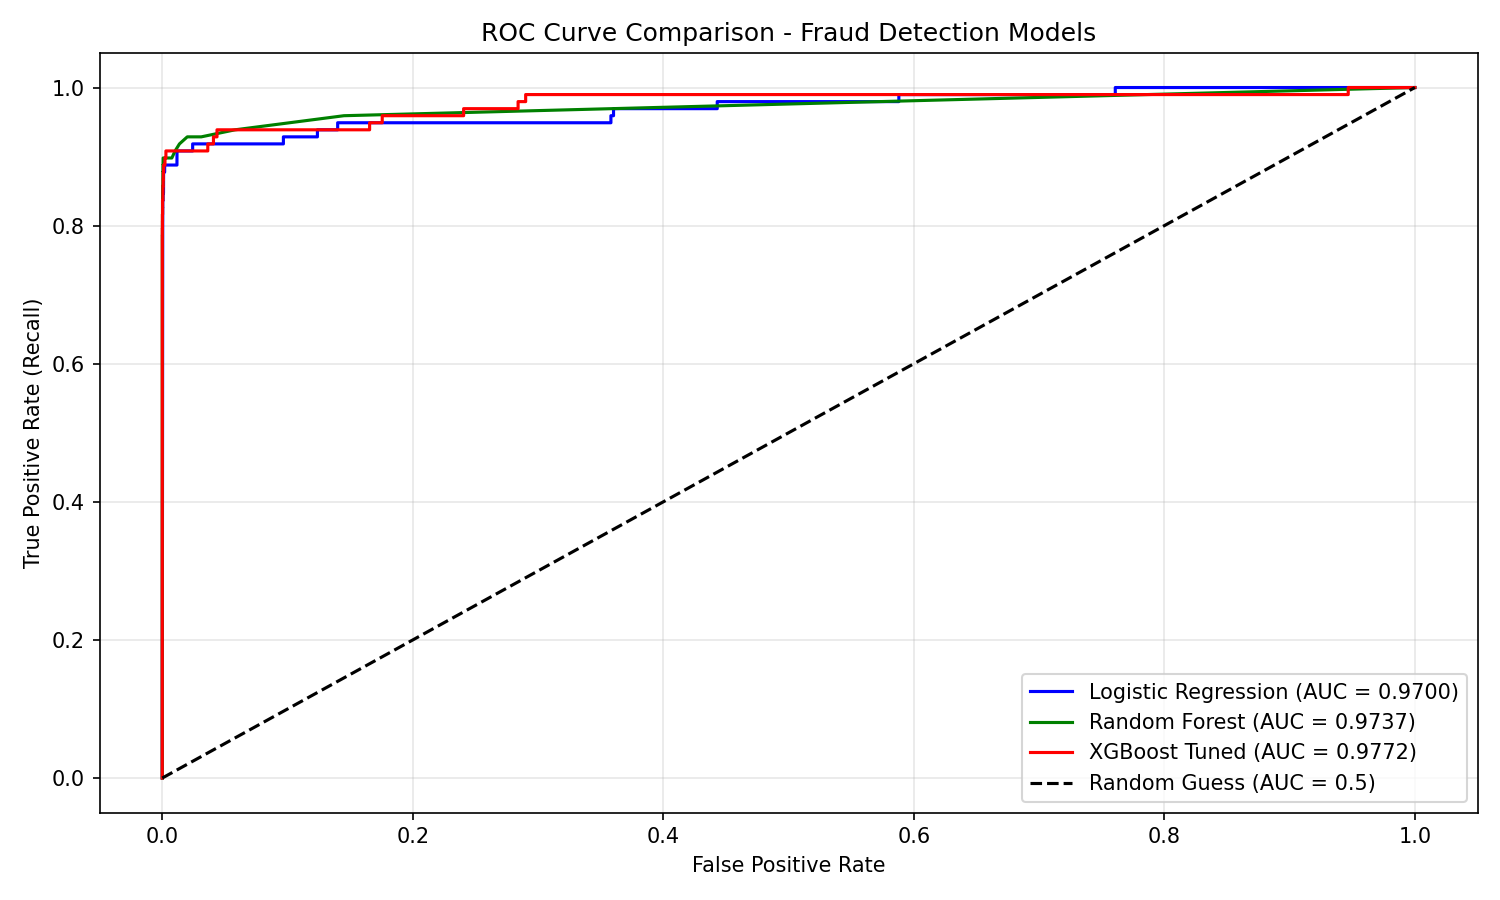
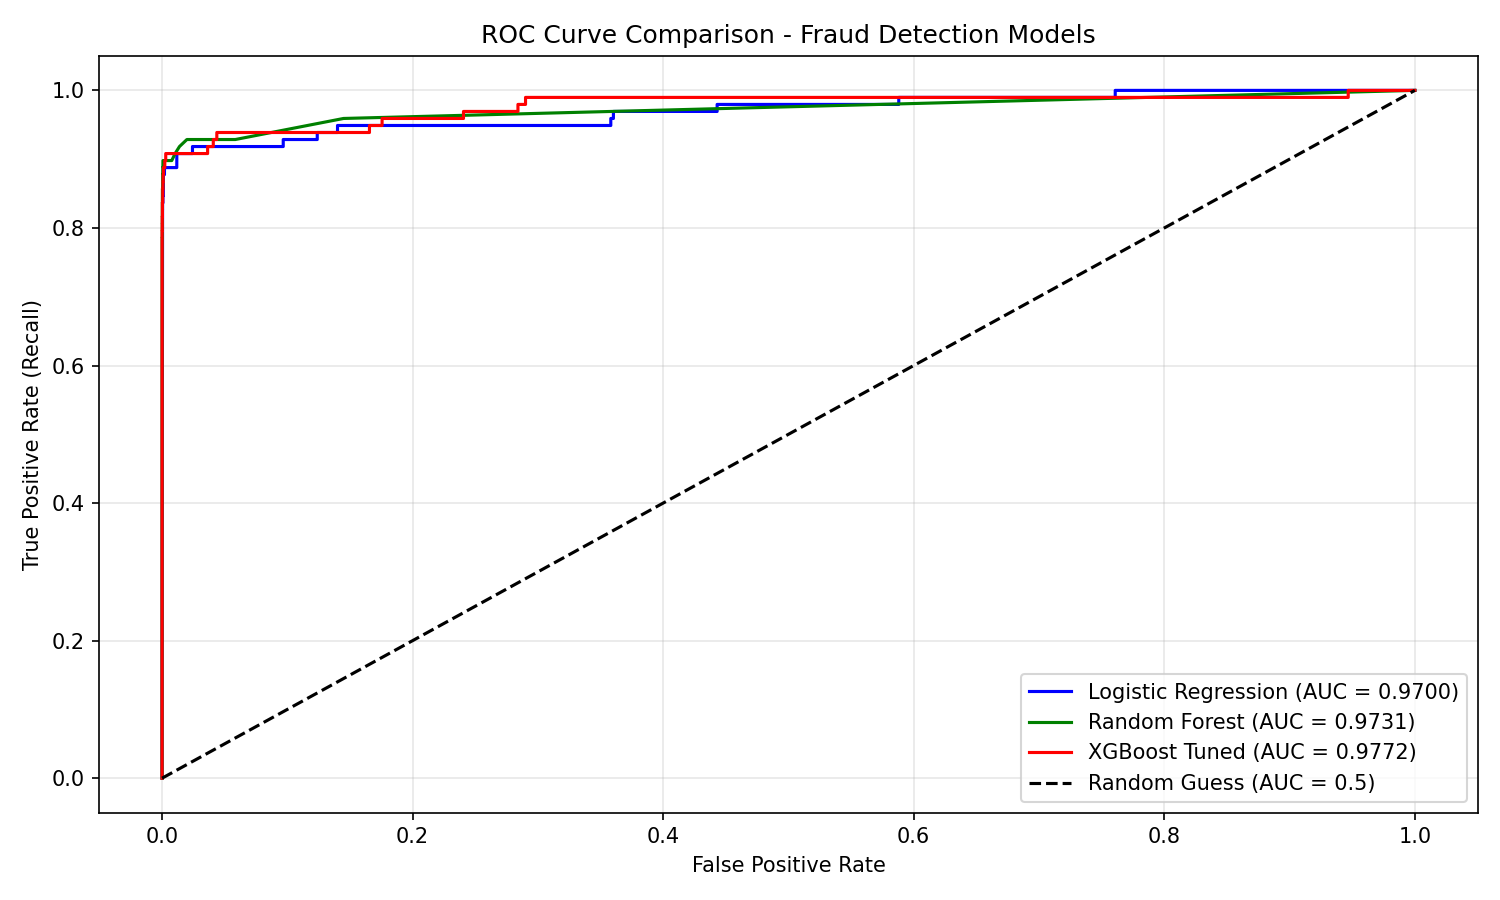
Saved best model as a pkl file

diff --git a/train.py b/train.py
@@ -175,3 +175,9 @@ plt.grid(True, alpha=0.3)
 plt.tight_layout()
 plt.savefig('roc_curve.png', dpi=150)
 print("\nROC curve saved as roc_curve.png")
+
+
+print("Saving the models")
+
+joblib.dump(rf, 'model.pkl')
+joblib.dump(scaler, 'scaler.pkl')
